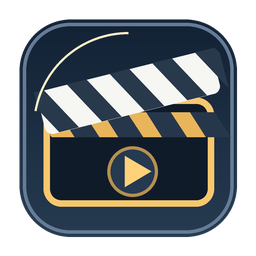
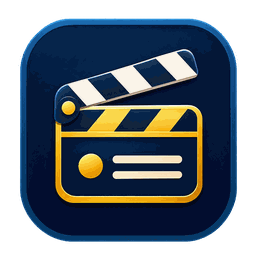
feat(desktop beta): unificar marca Selector Cine 365 e icono original

diff --git a/plantilla.html b/plantilla.html
@@ -8,8 +8,8 @@
 <!-- Autoría: Cristian Barallobre Rúa · © 2026 · github.com/cristianbarallobre/selector-cine-365 -->
 <meta name="author" content="__APP_AUTHOR__">
 <meta name="copyright" content="__APP_COPYRIGHT__">
-<meta name="application-name" content="Selector de Cine 365">
-<title>Selector de Cine 365 · v8.2</title>
+<meta name="application-name" content="Selector Cine 365">
+<title>Selector Cine 365 · v9.0 beta</title>
 <style>
 :root{color-scheme:dark;--bg:#0b1018;--panel:#171f2b;--panel2:#1b2735;--line:#314052;--subtle:#94a2b5;--light:#f4f6fa;--gold:#f3c66d;--gold2:#d59b40;--green:#a4e4bc;--red:#e5a6a6;--r:19px}
 *{box-sizing:border-box}body{margin:0;background:radial-gradient(ellipse 960px 510px at 88% -10%,#263649 0%,transparent 76%),var(--bg);color:var(--light);font-family:'Segoe UI',system-ui,Arial,sans-serif;font-size:15px;min-height:100vh}button,input,textarea{font:inherit}button{cursor:pointer}button:disabled{opacity:.42;cursor:not-allowed}button:focus-visible,input:focus-visible,textarea:focus-visible{outline:2px solid var(--gold);outline-offset:2px}
@@ -283,19 +283,10 @@ h2{font-size:19px}
 <textarea id="initialState" hidden>__ATLAS_LISTA_INICIAL__</textarea>
 <main data-created-by="__APP_AUTHOR__" data-repository="cristianbarallobre/selector-cine-365">
   <header class="header">
-    <div class="brand" aria-hidden="true">
-      <svg viewBox="0 0 64 64" xmlns="http://www.w3.org/2000/svg" fill="none">
-        <rect x="9" y="21" width="47" height="34" rx="5" fill="#142132" stroke="#F0C76F" stroke-width="2.7"/>
-        <path d="M9 22.5h47v8.5H9z" fill="#F3C66D"/>
-        <path d="M15 22.5l7 8.5h9l-7-8.5zm18 0l7 8.5h9l-7-8.5z" fill="#233044"/>
-        <path d="M9.8 22.2 7.5 16a4 4 0 0 1 2.6-5l36-10.5a4 4 0 0 1 4.9 2.7l1.8 6.2-43 12.8Z" fill="#F4F6FA" transform="translate(0 5)"/>
-        <path d="m12 16 11-3-3-8-10 3zm18-5 11-3-3-8-11 3z" fill="#24334A" transform="translate(0 5)"/>
-        <circle cx="22" cy="43" r="3.5" fill="#F3C66D"/><path d="M31 43h16" stroke="#F3C66D" stroke-width="3" stroke-linecap="round"/>
-      </svg>
-    </div>
-    <div><div class="eyebrow">Atlas del cine</div><h1>¿Qué película veo hoy?</h1></div>
+    <div class="brand" aria-hidden="true"><img src="/icon.png" alt="" style="width:58px;height:58px;object-fit:contain"></div>
+    <div><div class="eyebrow">Selector Cine 365</div><h1>¿Qué película veo hoy?</h1></div>
     <div class="header-side">
-      <div class="header-tag">🎞 SELECTOR 365 · v8.2</div>
+      <div class="header-tag">🎞 SELECTOR CINE 365 · beta v9.0</div>
       <div class="saved" id="saveState" aria-live="polite">✓ Guardado</div>
       <div class="creator-credit" title="__APP_COPYRIGHT__">Hecho por <strong>__APP_AUTHOR__</strong></div>
     </div>
@@ -492,7 +483,7 @@ let rawText=$('initialState').value.replace(/^\uFEFF/,'').replace(/\r\n?/g,'\n')
 let parsed=null,filter='all',search='',chosen=null,lastChoice=null,saveTimer=null,saveQueue=Promise.resolve(),saveEpoch=0;
 let filmPage=0,collectionPage=0,statPages=new Map();
 let platformConfigured=false, platformData=new Map(),platformRun=0,platformActive=false,platformFinished=0,platformTotal=0;
-let libraryState={version:1,active_id:'atlas',lists:[{id:'atlas',name:'Atlas del cine · 365',text:rawText}]};
+let libraryState={version:1,active_id:'atlas',lists:[{id:'atlas',name:'Selector Cine 365 · 365',text:rawText}]};
 let editingListID=null,activeView='library',selectedSortPlatform='all';
 const identityMap=new Map(); // clave título-año -> ID TMDB guardado
 let identityScanRunning=false,identityScanAgain=false,identityScanProgress=0,identityScanTotal=0,identityRefreshTimer=null;
@@ -618,7 +609,7 @@ const pendingSymbols=new Set(['☐','□']);
 const allSymbols=/^[☐□☑☒✓✔✅]$/u;
 function lineInfo(text,idx){
  const original=text, trimmed=text.trim();
- if(!trimmed || /^ATLAS DEL CINE\b/i.test(trimmed) || /^#{1,6}\s/.test(trimmed) || /^[-_=]{3,}$/.test(trimmed))return null;
+ if(!trimmed || /^(?:ATLAS DEL CINE|SELECTOR CINE 365)\b/i.test(trimmed) || /^#{1,6}\s/.test(trimmed) || /^[-_=]{3,}$/.test(trimmed))return null;
  let m=trimmed.match(/^([☐□☑☒✓✔✅])\s*(?:(\d{1,4})[.)]\s*)?(.+?)\s*$/u);
  let checked=false,number='',name='';
  if(m){checked=!pendingSymbols.has(m[1]);number=m[2]||'';name=m[3]||'';}

diff --git a/main.go b/main.go
@@ -27,7 +27,7 @@ func countFilms(data string) int {
 	n := 0
 	for _, line := range strings.Split(data, "\n") {
 		line = strings.TrimSpace(line)
-		if line == "" || strings.HasPrefix(strings.ToUpper(line), "ATLAS DEL CINE") ||
+		if line == "" || (strings.HasPrefix(strings.ToUpper(line), "ATLAS DEL CINE") || strings.HasPrefix(strings.ToUpper(line), "SELECTOR CINE 365")) ||
 			strings.HasPrefix(line, "#") || line == "---" {
 			continue
 		}
@@ -250,6 +250,6 @@ func main() {
 		return
 	}
 	if err := serve(); err != nil && !errors.Is(err, http.ErrServerClosed) {
-		notifyError("Selector de Cine 365", err.Error())
+		notifyError("Selector Cine 365", err.Error())
 	}
 }

diff --git a/collections.go b/collections.go
@@ -31,7 +31,7 @@ type libraryState struct {
 var listIDPattern = regexp.MustCompile(`^[a-zA-Z0-9_-]{1,60}$`)
 
 func initialLibrary(legacy string) libraryState {
-	return libraryState{Version: 1, ActiveID: "atlas", Lists: []filmCollection{{ID: "atlas", Name: "Atlas del cine · 365", Text: legacy}}}
+	return libraryState{Version: 1, ActiveID: "atlas", Lists: []filmCollection{{ID: "atlas", Name: "Selector Cine 365 · 365", Text: legacy}}}
 }
 func validateLibrary(l libraryState) error {
 	if l.Version != 1 || len(l.Lists) < 1 || len(l.Lists) > 40 {
